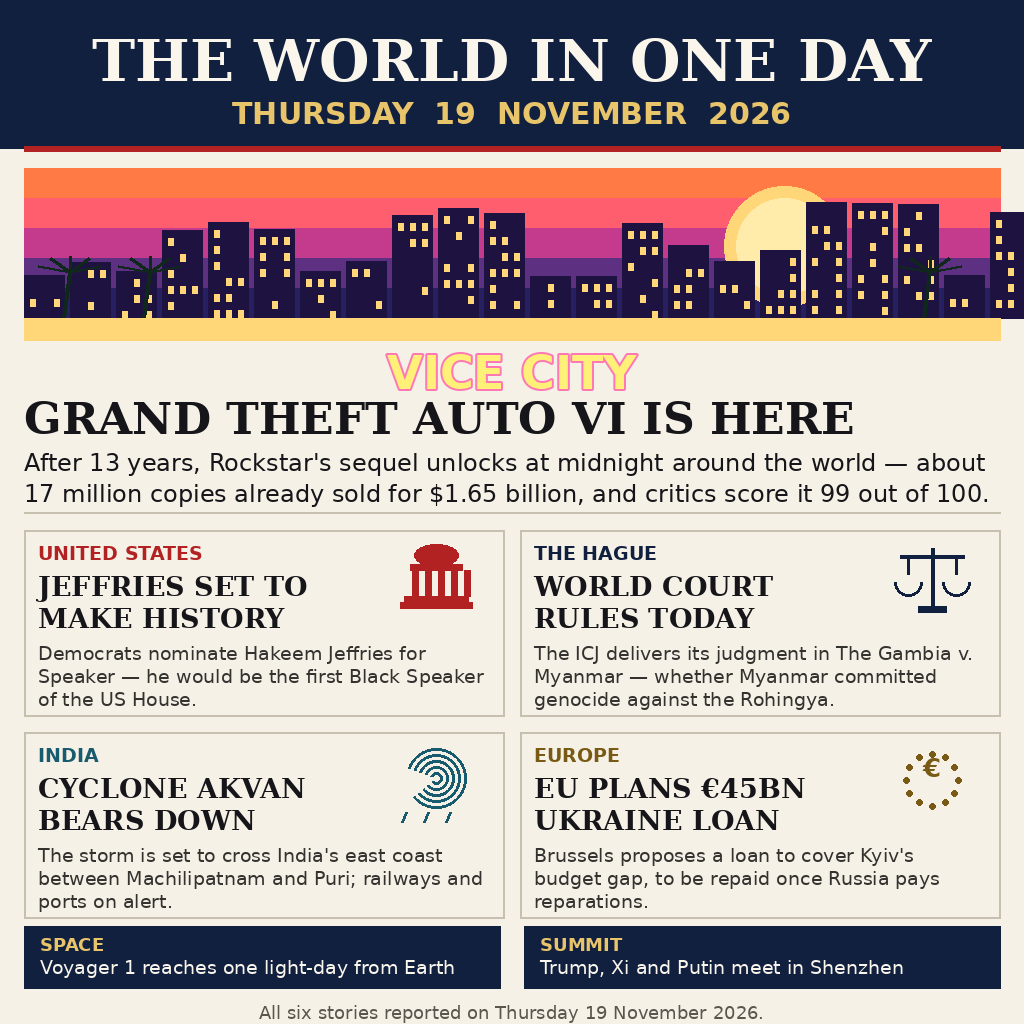
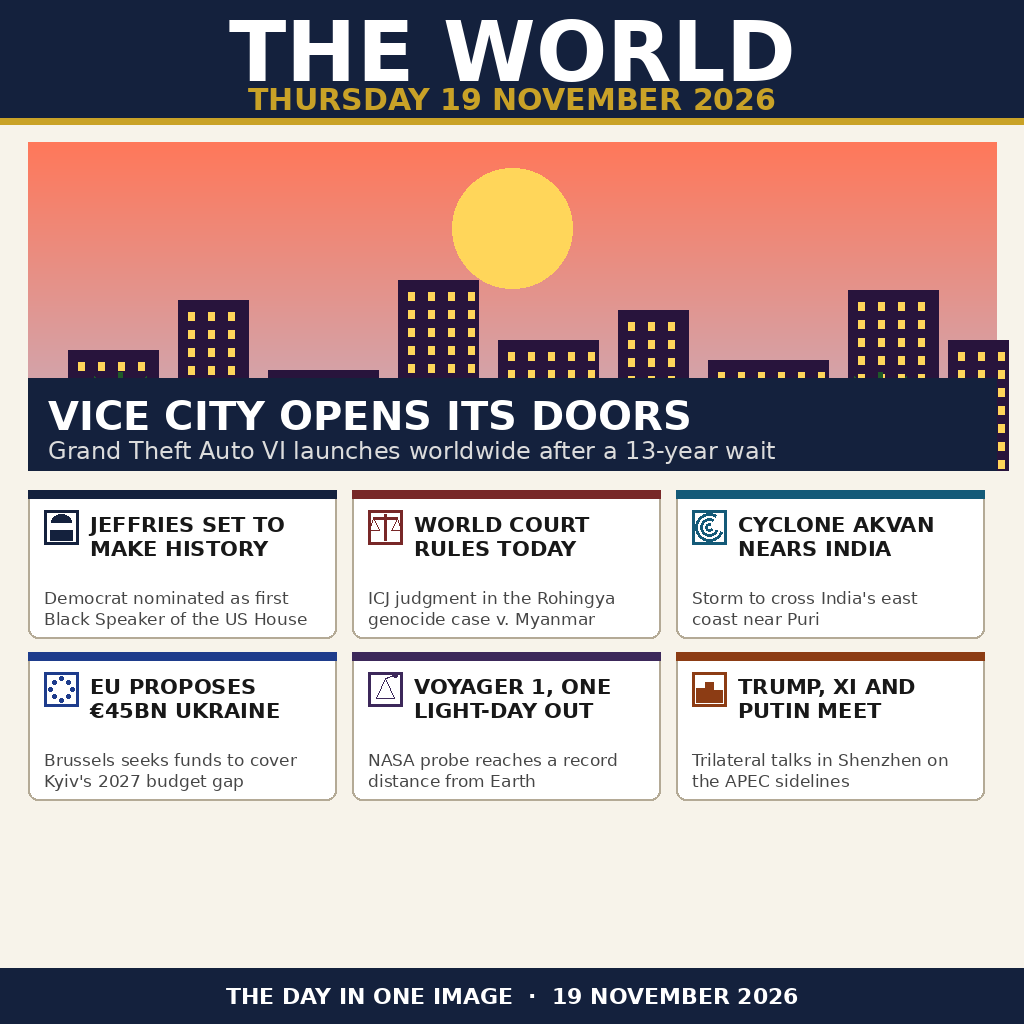
Draw front page: GTA VI launch leads 19 Nov 2026

diff --git a/draw.py b/draw.py
@@ -1,223 +1,169 @@
 #!/usr/bin/env python3
-"""Draw the front page for Thursday 19 November 2026.
+"""Draw the 19 November 2026 front page: one original 1024x1024 poster.
 
-Original artwork, drawn from scratch with Pillow: a newspaper-style
-poster summarising the day's world news. No photographs, no copied art.
+Layout: navy masthead with THE WORLD + the date, a lead panel on the GTA VI
+launch (drawn Vice City sunset skyline), then a 2x3 grid of story cards with
+simple drawn icons, short headlines and one-line subs, and a footer strip.
+Everything is drawn with Pillow primitives; no photos, no copied artwork.
+Deterministic: no randomness, no timestamps baked into the image.
 """
 import math
+import os
 from PIL import Image, ImageDraw, ImageFont
 
 W = H = 1024
-PAPER = (246, 241, 231)
-INK = (22, 22, 26)
-NAVY = (18, 32, 64)
-RED = (178, 34, 34)
-GREY = (90, 86, 78)
-LINE = (200, 192, 175)
-
-SERIF = "/usr/share/fonts/truetype/dejavu/DejaVuSerif-Bold.ttf"
-SERIF_R = "/usr/share/fonts/truetype/dejavu/DejaVuSerif.ttf"
-SANS = "/usr/share/fonts/truetype/dejavu/DejaVuSans-Bold.ttf"
-SANS_R = "/usr/share/fonts/truetype/dejavu/DejaVuSans.ttf"
+PAPER = (247, 243, 234)
+NAVY = (20, 33, 61)
+GOLD = (201, 162, 39)
+INK = (24, 24, 24)
+RULE = (180, 170, 150)
 
 
-def font(path, size):
-    return ImageFont.truetype(path, size)
+def font(name, size):
+    for path in (
+        f"/usr/share/fonts/truetype/dejavu/{name}.ttf",
+        f"/usr/share/fonts/{name}.ttf",
+    ):
+        if os.path.exists(path):
+            return ImageFont.truetype(path, size)
+    return ImageFont.load_default()
+
+
+def fb(size):
+    return font("DejaVuSans-Bold", size)
+
+
+def fr(size):
+    return font("DejaVuSans", size)
 
 
 def wrap(draw, text, fnt, max_w):
-    words, lines, cur = text.split(), [], ""
-    for w in words:
+    lines, cur = [], ""
+    for w in text.split():
         trial = (cur + " " + w).strip()
         if draw.textlength(trial, font=fnt) <= max_w:
             cur = trial
         else:
-            if cur:
-                lines.append(cur)
+            lines.append(cur)
             cur = w
     if cur:
         lines.append(cur)
     return lines
 
 
-def para(draw, x, y, text, fnt, color, max_w, leading=None):
-    leading = leading or int(fnt.size * 1.28)
-    for line in wrap(draw, text, fnt, max_w):
-        draw.text((x, y), line, font=fnt, fill=color)
-        y += leading
-    return y
+def draw_icon(d, kind, ix, iy, accent):
+    d.rectangle([ix, iy, ix + 34, iy + 34], outline=accent, width=3)
+    if kind == "capitol":
+        d.pieslice([ix + 7, iy + 4, ix + 27, iy + 20], 180, 360, fill=accent)
+        d.rectangle([ix + 6, iy + 20, ix + 28, iy + 30], fill=accent)
+    elif kind == "scales":
+        d.line([(ix + 17, iy + 4), (ix + 17, iy + 30)], fill=accent, width=3)
+        d.line([(ix + 5, iy + 8), (ix + 29, iy + 8)], fill=accent, width=3)
+        d.polygon([(ix + 5, iy + 8), (ix + 11, iy + 20), (ix + 1, iy + 20)],
+                  outline=accent)
+        d.polygon([(ix + 29, iy + 8), (ix + 33, iy + 20), (ix + 23, iy + 20)],
+                  outline=accent)
+    elif kind == "storm":
+        for r in (4, 9, 14):
+            d.arc([ix + 17 - r, iy + 17 - r, ix + 17 + r, iy + 17 + r],
+                  20, 300, fill=accent, width=3)
+    elif kind == "stars":
+        for k in range(8):
+            a = math.radians(k * 45)
+            sx = ix + 17 + int(11 * math.cos(a))
+            sy = iy + 17 + int(11 * math.sin(a))
+            d.ellipse([sx - 2, sy - 2, sx + 2, sy + 2], fill=accent)
+    elif kind == "probe":
+        d.polygon([(ix + 8, iy + 26), (ix + 17, iy + 6), (ix + 26, iy + 26)],
+                  outline=accent)
+        d.line([(ix + 17, iy + 6), (ix + 26, iy + 2)], fill=accent, width=2)
+        d.ellipse([ix + 25, iy + 1, ix + 29, iy + 5], fill=accent)
+    else:  # summit skyline
+        d.rectangle([ix + 4, iy + 16, ix + 12, iy + 30], fill=accent)
+        d.rectangle([ix + 13, iy + 10, ix + 21, iy + 30], fill=accent)
+        d.rectangle([ix + 22, iy + 18, ix + 30, iy + 30], fill=accent)
 
 
-def rule(draw, x, y, w, color=INK, width=2):
-    draw.line([(x, y), (x + w, y)], fill=color, width=width)
+def main():
+    img = Image.new("RGB", (W, H), PAPER)
+    d = ImageDraw.Draw(img)
+
+    # --- masthead ---
+    d.rectangle([0, 0, W, 118], fill=NAVY)
+    d.rectangle([0, 118, W, 124], fill=GOLD)
+    d.text((W // 2, 52), "THE WORLD", font=fb(84), fill=(255, 255, 255),
+           anchor="mm")
+    d.text((W // 2, 100), "THURSDAY 19 NOVEMBER 2026",
+           font=fb(30), fill=GOLD, anchor="mm")
+
+    # --- lead panel: Vice City sunset ---
+    x0, y0, x1, y1 = 28, 142, 996, 470
+    for i in range(y1 - y0):
+        t = i / (y1 - y0)
+        d.line([(x0, y0 + i), (x1, y0 + i)],
+               fill=(int(255 - 60 * t), int(120 + 60 * t), int(90 + 110 * t)))
+    d.ellipse([452, 168, 572, 288], fill=(255, 214, 90))
+    for bx, bw, bh in [(40, 90, 120), (150, 70, 170), (240, 110, 100),
+                       (370, 80, 190), (470, 100, 130), (590, 70, 160),
+                       (680, 120, 110), (820, 90, 180), (920, 60, 130)]:
+        d.rectangle([x0 + bx, y1 - bh, x0 + bx + bw, y1], fill=(40, 20, 60))
+        for wy in range(y1 - bh + 12, y1 - 8, 18):
+            for wx in range(x0 + bx + 10, x0 + bx + bw - 8, 20):
+                d.rectangle([wx, wy, wx + 6, wy + 8], fill=(255, 214, 90))
+    for px in (120, 880):
+        d.line([(px, y1), (px, y1 - 70)], fill=(30, 60, 30), width=6)
+        for ang in range(-70, 71, 35):
+            ex = px + int(48 * math.sin(math.radians(ang)))
+            ey = y1 - 70 - int(28 * abs(math.cos(math.radians(ang))))
+            d.line([(px, y1 - 70), (ex, ey)], fill=(30, 90, 40), width=5)
+    d.rectangle([x0, y1 - 92, x1, y1], fill=NAVY)
+    d.text((x0 + 20, y1 - 78), "VICE CITY OPENS ITS DOORS",
+           font=fb(40), fill=(255, 255, 255))
+    d.text((x0 + 20, y1 - 34),
+           "Grand Theft Auto VI launches worldwide after a 13-year wait",
+           font=fr(24), fill=(220, 220, 220))
+
+    # --- story grid 2 x 3 ---
+    stories = [
+        ((20, 33, 61), "JEFFRIES SET TO MAKE HISTORY",
+         "Democrat nominated as first Black Speaker of the US House", "capitol"),
+        ((120, 40, 40), "WORLD COURT RULES TODAY",
+         "ICJ judgment in the Rohingya genocide case v. Myanmar", "scales"),
+        ((20, 90, 120), "CYCLONE AKVAN NEARS INDIA",
+         "Storm to cross India's east coast near Puri", "storm"),
+        ((30, 60, 140), "EU PROPOSES \u20ac45BN UKRAINE LOAN",
+         "Brussels seeks funds to cover Kyiv's 2027 budget gap", "stars"),
+        ((60, 40, 90), "VOYAGER 1, ONE LIGHT-DAY OUT",
+         "NASA probe reaches a record distance from Earth", "probe"),
+        ((140, 60, 20), "TRUMP, XI AND PUTIN MEET",
+         "Trilateral talks in Shenzhen on the APEC sidelines", "summit"),
+    ]
+    cw, ch, gx, gy = 308, 148, 28, 490
+    for i, (accent, head, sub, icon) in enumerate(stories):
+        cx = gx + (i % 3) * (cw + 16)
+        cy = gy + (i // 3) * (ch + 14)
+        d.rounded_rectangle([cx, cy, cx + cw, cy + ch], radius=10,
+                            fill=(255, 255, 255), outline=RULE, width=2)
+        d.rectangle([cx, cy, cx + cw, cy + 8], fill=accent)
+        tx, ty = cx + 16, cy + 20
+        draw_icon(d, icon, tx, ty, accent)
+        hy = ty + 2
+        for ln in wrap(d, head, fb(21), cw - 66)[:2]:
+            d.text((tx + 46, hy), ln, font=fb(21), fill=INK)
+            hy += 24
+        sy = ty + 78
+        for ln in wrap(d, sub, fr(17), cw - 32)[:2]:
+            d.text((tx, sy), ln, font=fr(17), fill=(70, 70, 70))
+            sy += 21
+
+    # --- footer ---
+    d.rectangle([0, 968, W, H], fill=NAVY)
+    d.text((W // 2, 996), "THE DAY IN ONE IMAGE  \u00b7  19 NOVEMBER 2026",
+           font=fb(22), fill=(255, 255, 255), anchor="mm")
+
+    img.save("entry.png", optimize=True)
+    print("wrote entry.png", os.path.getsize("entry.png"), "bytes")
 
 
-img = Image.new("RGB", (W, H), PAPER)
-d = ImageDraw.Draw(img)
-
-# ---------------------------------------------------------------- masthead
-d.rectangle([0, 0, W, 148], fill=NAVY)
-d.text((512, 26), "THE WORLD IN ONE DAY", font=font(SERIF, 58),
-       fill=(250, 246, 236), anchor="ma")
-d.text((512, 96), "THURSDAY  19  NOVEMBER  2026", font=font(SANS, 30),
-       fill=(232, 196, 106), anchor="ma")
-rule(d, 24, 148, W - 48, color=RED, width=6)
-
-# ------------------------------------------------------- lead: GTA VI panel
-LX, LY, LW, LH = 24, 168, 976, 330
-# Sunset sky over Vice City: gradient bands
-sky = [(255, 122, 69), (255, 94, 110), (196, 58, 140), (94, 48, 130),
-       (38, 32, 96)]
-band_h = 150 // len(sky)
-for i, c in enumerate(sky):
-    d.rectangle([LX, LY + i * band_h, LX + LW, LY + (i + 1) * band_h],
-                fill=c)
-# sun
-d.ellipse([LX + 700, LY + 18, LX + 820, LY + 138], fill=(255, 214, 120))
-d.ellipse([LX + 712, LY + 30, LX + 808, LY + 126], fill=(255, 236, 170))
-# skyline silhouettes
-import random
-random.seed(19)
-base = LY + 150
-for x in range(LX, LX + LW, 46):
-    bh = random.randint(38, 118)
-    d.rectangle([x, base - bh, x + 40, base], fill=(30, 18, 64))
-    for wy in range(base - bh + 8, base - 6, 16):
-        for wx in range(x + 6, x + 34, 12):
-            if random.random() < 0.45:
-                d.rectangle([wx, wy, wx + 5, wy + 7], fill=(255, 214, 120))
-# palm trees
-def palm(px, py, s, col=(16, 40, 28)):
-    d.line([(px, py), (px + 6 * s, py - 46 * s)], fill=col, width=max(3, 4 * s))
-    for ang in (-70, -35, 0, 35, 70):
-        a = math.radians(ang - 90)
-        ex = px + 6 * s + math.cos(a) * 34 * s
-        ey = py - 46 * s + math.sin(a) * 16 * s
-        d.line([(px + 6 * s, py - 46 * s), (ex, ey)], fill=col, width=max(2, 3 * s))
-palm(LX + 40, base, 1)
-palm(LX + 120, base, 1)
-palm(LX + 900, base, 1)
-# sea strip
-d.rectangle([LX, base, LX + LW, LY + 168], fill=(24, 90, 110))
-d.rectangle([LX, base, LX + LW, LY + 172], fill=(255, 214, 120))
-# neon sign
-d.text((LX + 488, LY + 178), "VICE CITY", font=font(SANS, 46),
-       fill=(255, 240, 120), anchor="ma",
-       stroke_width=2, stroke_fill=(255, 120, 180))
-# lead text block below the picture
-TY = LY + 224
-d.text((LX, TY), "GRAND THEFT AUTO VI IS HERE",
-       font=font(SERIF, 44), fill=INK)
-para(d, LX, TY + 56,
-     "After 13 years, Rockstar's sequel unlocks at midnight around the "
-     "world — about 17 million copies already sold for $1.65 billion, "
-     "and critics score it 99 out of 100.",
-     font(SANS_R, 24), INK, LW, leading=31)
-rule(d, 24, 512, W - 48, color=LINE, width=2)
-
-# ------------------------------------------------------------- story grid
-GX, GY = 24, 530
-CW, CH, GAP = 480, 186, 16
-
-stories = [
-    ("UNITED STATES", (178, 34, 34),
-     "JEFFRIES SET TO MAKE HISTORY",
-     "Democrats nominate Hakeem Jeffries for Speaker — "
-     "he would be the first Black Speaker of the US House.",
-     "capitol"),
-    ("THE HAGUE", (18, 32, 64),
-     "WORLD COURT RULES TODAY",
-     "The ICJ delivers its judgment in The Gambia v. Myanmar — "
-     "whether Myanmar committed genocide against the Rohingya.",
-     "scales"),
-    ("INDIA", (24, 90, 110),
-     "CYCLONE AKVAN BEARS DOWN",
-     "The storm is set to cross India's east coast between "
-     "Machilipatnam and Puri; railways and ports on alert.",
-     "cyclone"),
-    ("EUROPE", (120, 90, 20),
-     "EU PLANS €45BN UKRAINE LOAN",
-     "Brussels proposes a loan to cover Kyiv's budget gap, "
-     "to be repaid once Russia pays reparations.",
-     "stars"),
-]
-
-
-def icon_capitol(d, x, y, s, col):
-    d.ellipse([x + 18 * s, y, x + 62 * s, y + 22 * s], fill=col)
-    d.rectangle([x + 14 * s, y + 20 * s, x + 66 * s, y + 26 * s], fill=col)
-    for i in range(5):
-        cx = x + (16 + i * 13) * s
-        d.rectangle([cx, y + 26 * s, cx + 6 * s, y + 52 * s], fill=col)
-    d.rectangle([x + 8 * s, y + 52 * s, x + 72 * s, y + 58 * s], fill=col)
-    d.rectangle([x + 4 * s, y + 58 * s, x + 76 * s, y + 64 * s], fill=col)
-
-
-def icon_scales(d, x, y, s, col):
-    d.line([(x + 40 * s, y + 4 * s), (x + 40 * s, y + 62 * s)],
-           fill=col, width=4)
-    d.line([(x + 8 * s, y + 12 * s), (x + 72 * s, y + 12 * s)],
-           fill=col, width=4)
-    for cx in (16, 64):
-        d.line([(x + cx * s, y + 12 * s), (x + cx * s, y + 30 * s)],
-               fill=col, width=3)
-        d.arc([x + (cx - 14) * s, y + 24 * s, x + (cx + 14) * s, y + 52 * s],
-              0, 180, fill=col, width=3)
-    d.rectangle([x + 26 * s, y + 62 * s, x + 54 * s, y + 68 * s], fill=col)
-
-
-def icon_cyclone(d, x, y, s, col):
-    for r in range(6, 34, 6):
-        d.arc([x + 40 * s - r * s, y + 32 * s - r * s,
-               x + 40 * s + r * s, y + 32 * s + r * s],
-              200, 200 + 300, fill=col, width=3)
-    for i in range(3):
-        d.line([(x + (10 + i * 22) * s, y + 66 * s),
-                (x + (6 + i * 22) * s, y + 76 * s)], fill=col, width=3)
-
-
-def icon_stars(d, x, y, s, col):
-    for k in range(12):
-        a = math.radians(k * 30 - 90)
-        cx = x + 40 * s + math.cos(a) * 26 * s
-        cy = y + 34 * s + math.sin(a) * 26 * s
-        d.ellipse([cx - 3 * s, cy - 3 * s, cx + 3 * s, cy + 3 * s], fill=col)
-    d.text((x + 40 * s, y + 22 * s), "€", font=font(SANS, int(26 * s)),
-           fill=col, anchor="mm")
-
-
-ICONS = {"capitol": icon_capitol, "scales": icon_scales,
-         "cyclone": icon_cyclone, "stars": icon_stars}
-
-for i, (kicker, kc, head, body, icon) in enumerate(stories):
-    cx = GX + (i % 2) * (CW + GAP)
-    cy = GY + (i // 2) * (CH + GAP)
-    d.rectangle([cx, cy, cx + CW, cy + CH], outline=LINE, width=2)
-    d.text((cx + 14, cy + 12), kicker, font=font(SANS, 19), fill=kc)
-    ICONS[icon](d, cx + CW - 108, cy + 14, 1, kc)
-    head_lines = wrap(d, head, font(SERIF, 27), CW - 128)
-    hy = cy + 40
-    for line in head_lines:
-        d.text((cx + 14, hy), line, font=font(SERIF, 27), fill=INK)
-        hy += 32
-    para(d, cx + 14, hy + 8, body, font(SANS_R, 19), (52, 50, 46),
-         CW - 28, leading=23)
-
-# ------------------------------------------------------------ bottom strip
-BY = GY + 2 * CH + GAP + 8
-d.rectangle([24, BY, 500, BY + 62], fill=NAVY)
-d.text((40, BY + 8), "SPACE", font=font(SANS, 18), fill=(232, 196, 106))
-d.text((40, BY + 30), "Voyager 1 reaches one light-day from Earth",
-       font=font(SANS_R, 19), fill=(250, 246, 236))
-d.rectangle([524, BY, 1000, BY + 62], fill=NAVY)
-d.text((540, BY + 8), "SUMMIT", font=font(SANS, 18), fill=(232, 196, 106))
-d.text((540, BY + 30), "Trump, Xi and Putin meet in Shenzhen",
-       font=font(SANS_R, 19), fill=(250, 246, 236))
-
-# ------------------------------------------------------------------ footer
-FY = BY + 62 + 14
-d.text((512, FY), "All six stories reported on Thursday 19 November 2026.",
-       font=font(SANS_R, 18), fill=GREY, anchor="ma")
-
-img.save("entry.png", optimize=True)
-print("saved entry.png")
+if __name__ == "__main__":
+    main()
